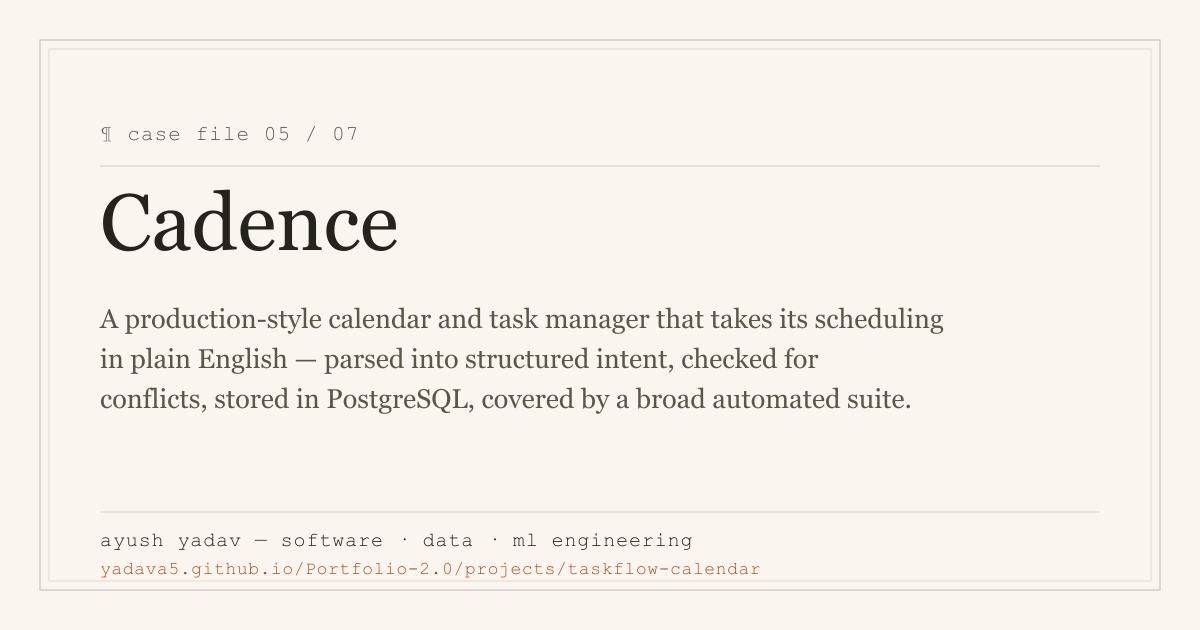
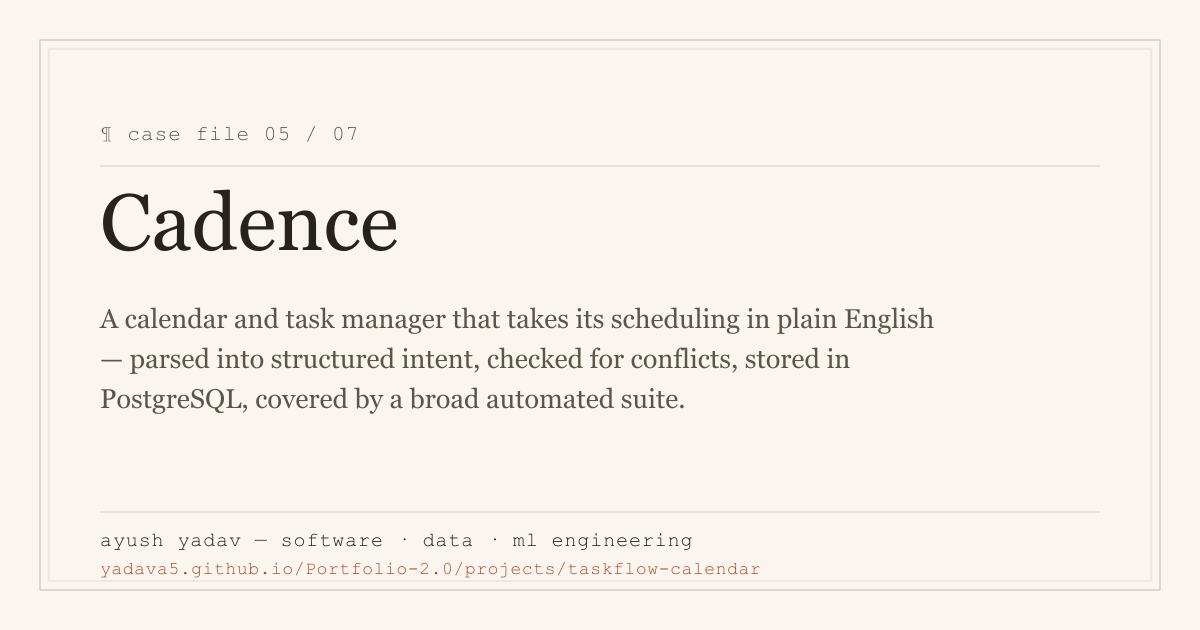
edit(data): the automl register cited a reason that stopped being true
Nine lines across the case files and the evidence index, from a line-by-line
read of all 883 reader-visible strings on the non-home routes.

THE ONE THAT MATTERED. The automl corrections register held a note reading
"Per-run metrics remain withheld while the repository is private" — directly
above an erratum dated 2026-07-30 that opens "The repository is no longer
private, and until today this file said it was", and then closes by endorsing
the note: "The note above still stands." So the page stated a condition, refuted
it four lines later, and reaffirmed it anyway. On the one file whose entire
argument is that no figure appears without an artifact to earn it.

The withholding was always right; only the stated reason had expired. The note
now gives the reason that is still true — no committed eval artifact earns one —
and the erratum says the note stands "with its reason corrected". The history
stays in the register; the false present tense does not.

THE EVIDENCE INDEX STATED THREE NUMBERS BY DESCRIBING THEM. Its own siblings
print theirs ("Cadence suite measured 2026-07: 634 frontend + 511 backend =
1,145 passing"), so three entries that said a number exists rather than what it
is read as the rows with something to hide — while their labels carried the
figure the sentence would not say. Now, taken from the ledger JSON rather than
from prose: 71 test functions in the public VisualAssistTests tree; 3,731
[…]

Changed region(s): [[0.0925, 0.4825, 0.8017, 0.6635]]

diff --git a/src/lib/data/projectCaseStudies.ts b/src/lib/data/projectCaseStudies.ts
@@ -856,7 +856,7 @@ export const projectCaseStudies: ProjectCaseStudy[] = [
       href: `https://github.com/yadava5/ai-augmented-auto-ml-toolchain/tree/${AUTOML_SHA}`,
     },
     summary:
-      "A public, GitHub-backed agentic AutoML platform. Datasets and domain documents become auditable pipeline decisions — and a human approval gate holds every generated action before it alters the workflow.",
+      "A public agentic AutoML platform. Datasets and domain documents become auditable pipeline decisions — and a human approval gate holds every generated action before it alters the workflow.",
     evidenceDisclosure: {
       label: "Private proof: GitHub evidence",
       detail:
@@ -1104,12 +1104,12 @@ export const projectCaseStudies: ProjectCaseStudy[] = [
       {
         date: "2026-07",
         kind: "note",
-        text: "Per-run metrics remain withheld while the repository is private; the eval protocol for the platform’s own model runs is not yet publicly documented. Nothing here has been retracted — this register is waiting on a demo-data run ledger.",
+        text: "Per-run metrics remain withheld because no committed eval artifact earns one; the eval protocol for the platform’s own model runs is not yet publicly documented. Nothing here has been retracted — this register is waiting on a demo-data run ledger.",
       },
       {
         date: "2026-07-30",
         kind: "erratum",
-        text: "The repository is no longer private, and until today this file said it was. Receipt 01 read “The platform lives in the private repo …” and carried no artifact at all — true when written, false the moment the visibility changed, and it was the one incorrect sentence on the page. yadava5/ai-augmented-auto-ml-toolchain now answers anonymously; both paths cited here were fetched without a token and returned 200 before the rows were rewritten. Two claims moved from a photograph of a poster to the source that decides them: the seven-phase lifecycle and the human gate now cite the README at e506c91, and the MCP claim cites the server file, which registers exactly twelve tools — named here in source order because this project’s booklets once shipped fabricated tool names and an audit had to replace them. The note above still stands: going public makes the ARCHITECTURE inspectable, not the results. No accuracy or throughput figure appears on this file, because no committed eval artifact earns one.",
+        text: "The repository is no longer private, and until today this file said it was. Receipt 01 read “The platform lives in the private repo …” and carried no artifact at all — true when written, false the moment the visibility changed, and it was the one incorrect sentence on the page. yadava5/ai-augmented-auto-ml-toolchain now answers anonymously; both paths cited here were fetched without a token and returned 200 before the rows were rewritten. Two claims moved from a photograph of a poster to the source that decides them: the seven-phase lifecycle and the human gate now cite the README at e506c91, and the MCP claim cites the server file, which registers exactly twelve tools — named here in source order because this project’s booklets once shipped fabricated tool names and an audit had to replace them. The note above stands with its reason corrected: going public makes the ARCHITECTURE inspectable, not the results. No accuracy or throughput figure appears on this file, because no committed eval artifact earns one.",
       },
     ],
     registryFig: {
@@ -1423,7 +1423,7 @@ export const projectCaseStudies: ProjectCaseStudy[] = [
       href: `https://github.com/yadava5/cadence/tree/${CADENCE_SHA}`,
     },
     summary:
-      "A production-style calendar and task manager that takes its scheduling in plain English — parsed into structured intent, checked for conflicts, stored in PostgreSQL, covered by a broad automated suite. It is also the file where I found eight of my own IDOR bugs, fixed them, and then wrote the database-level isolation that would make them structurally impossible — and left that half deliberately switched off until a staged cutover. Receipt 05 is where that standing is written down.",
+      "A calendar and task manager that takes its scheduling in plain English — parsed into structured intent, checked for conflicts, stored in PostgreSQL, covered by a broad automated suite. It is also the file where I found eight of my own IDOR bugs, fixed them, and then wrote the database-level isolation that would make them structurally impossible — and left that half deliberately switched off until a staged cutover. Receipt 05 is where that standing is written down.",
     problem:
       "Planning splinters across tools — notes here, reminders there, scheduling language nowhere — and nobody notices two meetings colliding until they collide.",
     constraints: [
@@ -1885,7 +1885,7 @@ export const projectCaseStudies: ProjectCaseStudy[] = [
         reason:
           "The work is organizational and cannot expose raw institutional records.",
         tradeoff:
-          "Recruiters cannot inspect source data, so this file names the systems, constraints, and validation shape instead.",
+          "No one outside the institution can inspect the source data, so this file names the systems, constraints, and validation shape instead.",
         status: "accepted",
       },
     ],
@@ -2297,7 +2297,7 @@ export const projectCaseStudies: ProjectCaseStudy[] = [
       "MNIST is small enough to hold in your head. That’s the point — at this size, low-level matrix optimization and benchmark discipline have nowhere to hide.",
     constraints: [
       "Keep the implementation in C++ with explicit SIMD and OpenMP paths.",
-      "Measure speedup without overstating unverified exact benchmark details.",
+      "Quote no speedup that a committed benchmark run does not produce.",
       "Expose the model through an interactive React and TypeScript frontend.",
       "Keep benchmark and accuracy claims traceable to source data.",
     ],
@@ -2361,8 +2361,7 @@ export const projectCaseStudies: ProjectCaseStudy[] = [
       },
       {
         decision: "Expose a React demo",
-        reason:
-          "Recruiters can inspect the behavior without reading only C++ code.",
+        reason: "A reader can watch the network work without reading C++.",
         tradeoff: "The frontend is secondary to the C++ benchmark proof.",
         status: "accepted",
       },

diff --git a/src/lib/data/proofManifest.ts b/src/lib/data/proofManifest.ts
@@ -155,7 +155,8 @@ export const proofManifest: ProofManifestEntry[] = [
   {
     id: "visual-assist-tests",
     label: "71 iOS tests",
-    claim: "Visual Assist has audited XCTest model and utility coverage.",
+    claim:
+      "The public VisualAssistTests tree holds 71 test functions across the model and utility layers.",
     source:
       "https://github.com/yadava5/VisualAssist/tree/22ebdaa/VisualAssistTests",
     sourceLabel: `VisualAssistTests @ ${VISUAL_ASSIST_SHA}`,
@@ -246,7 +247,7 @@ export const proofManifest: ProofManifestEntry[] = [
     id: "master-inventory-ledger",
     label: "10,453 deduped rows",
     claim:
-      "Master Inventory private-safe proof records the deduped inventory row count and schema boundary.",
+      "The checked-in ledger records 3,731 Tableau and 6,743 Workday rows deduped to 10,453 master rows across a 35-field schema.",
     source: "public/proof/master-inventory-ledger.json",
     sourceLabel: "master-inventory-ledger.json — checked in 2026-06",
     verification:
@@ -265,7 +266,7 @@ export const proofManifest: ProofManifestEntry[] = [
     id: "policybot-validation",
     label: "19/20 structured sweep",
     claim:
-      "PolicyBot private-safe proof records a structured validation sweep.",
+      "The checked-in ledger records a 19/20 structured sweep and a 17/25 keyword sweep, both self-graded, with 4 unsupported topics declined rather than answered.",
     source: "public/proof/policybot-validation-ledger.json",
     sourceLabel: "policybot-validation-ledger.json — checked in 2026-06",
     verification:
